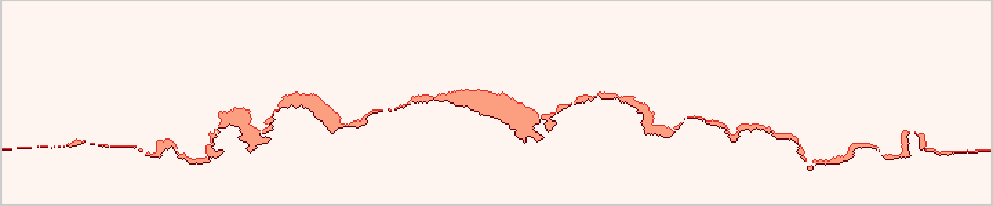
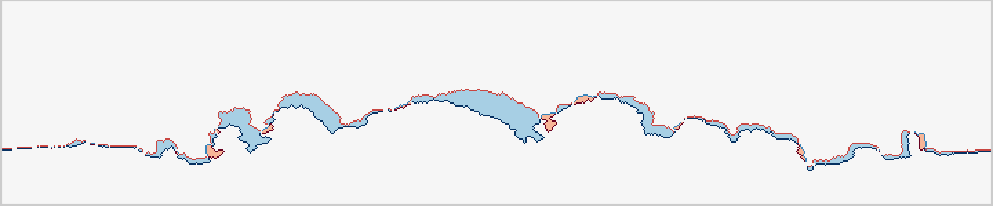
Better difference images * Use normal subtract rather than ``cv::absDiff`` (and cast to signed int) * Deployed a Diverging palette to make it even prettier...

diff --git a/scripts/plot_difference_images.py b/scripts/plot_difference_images.py
@@ -42,11 +42,11 @@ def plot_comparison(grid_filename1, image_filename1, roll1, output_filename1,
     grid_roll2 = np.roll(grid_image2, roll2, axis=1)
 
     # Calculate difference images
-    diff1 = cv2.absdiff(grid_roll1, route1_image)
-    diff2 = cv2.absdiff(grid_roll2, route2_image)
+    diff1 = np.subtract(grid_roll1, route1_image, dtype=np.int32)
+    diff2 = np.subtract(grid_roll2, route2_image, dtype=np.int32)
 
     # Build a suitable colour map
-    cmap = ListedColormap(sns.color_palette("Reds", 256))
+    cmap = ListedColormap(sns.color_palette("RdBu", 256))
 
     # Plot difference images
     plot_diff(diff1, cmap, output_filename1)
